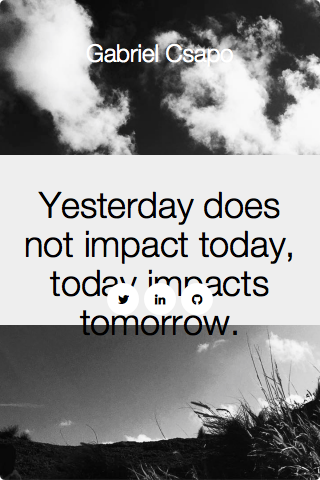
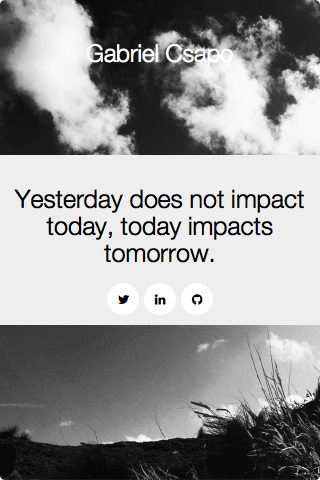
fixes font-sizing at 480px width fixes #3

Changed region(s): [[0.0312, 0.375, 0.9688, 0.7188]]

diff --git a/public/css/cover.css b/public/css/cover.css
@@ -1,3 +1,9 @@
+@media (max-width: 480) {
+    .cover-heading {
+        font-size: 25px
+    }
+}
+
 * {
     font-weight: 200 !important;
     text-shadow: none !important;
